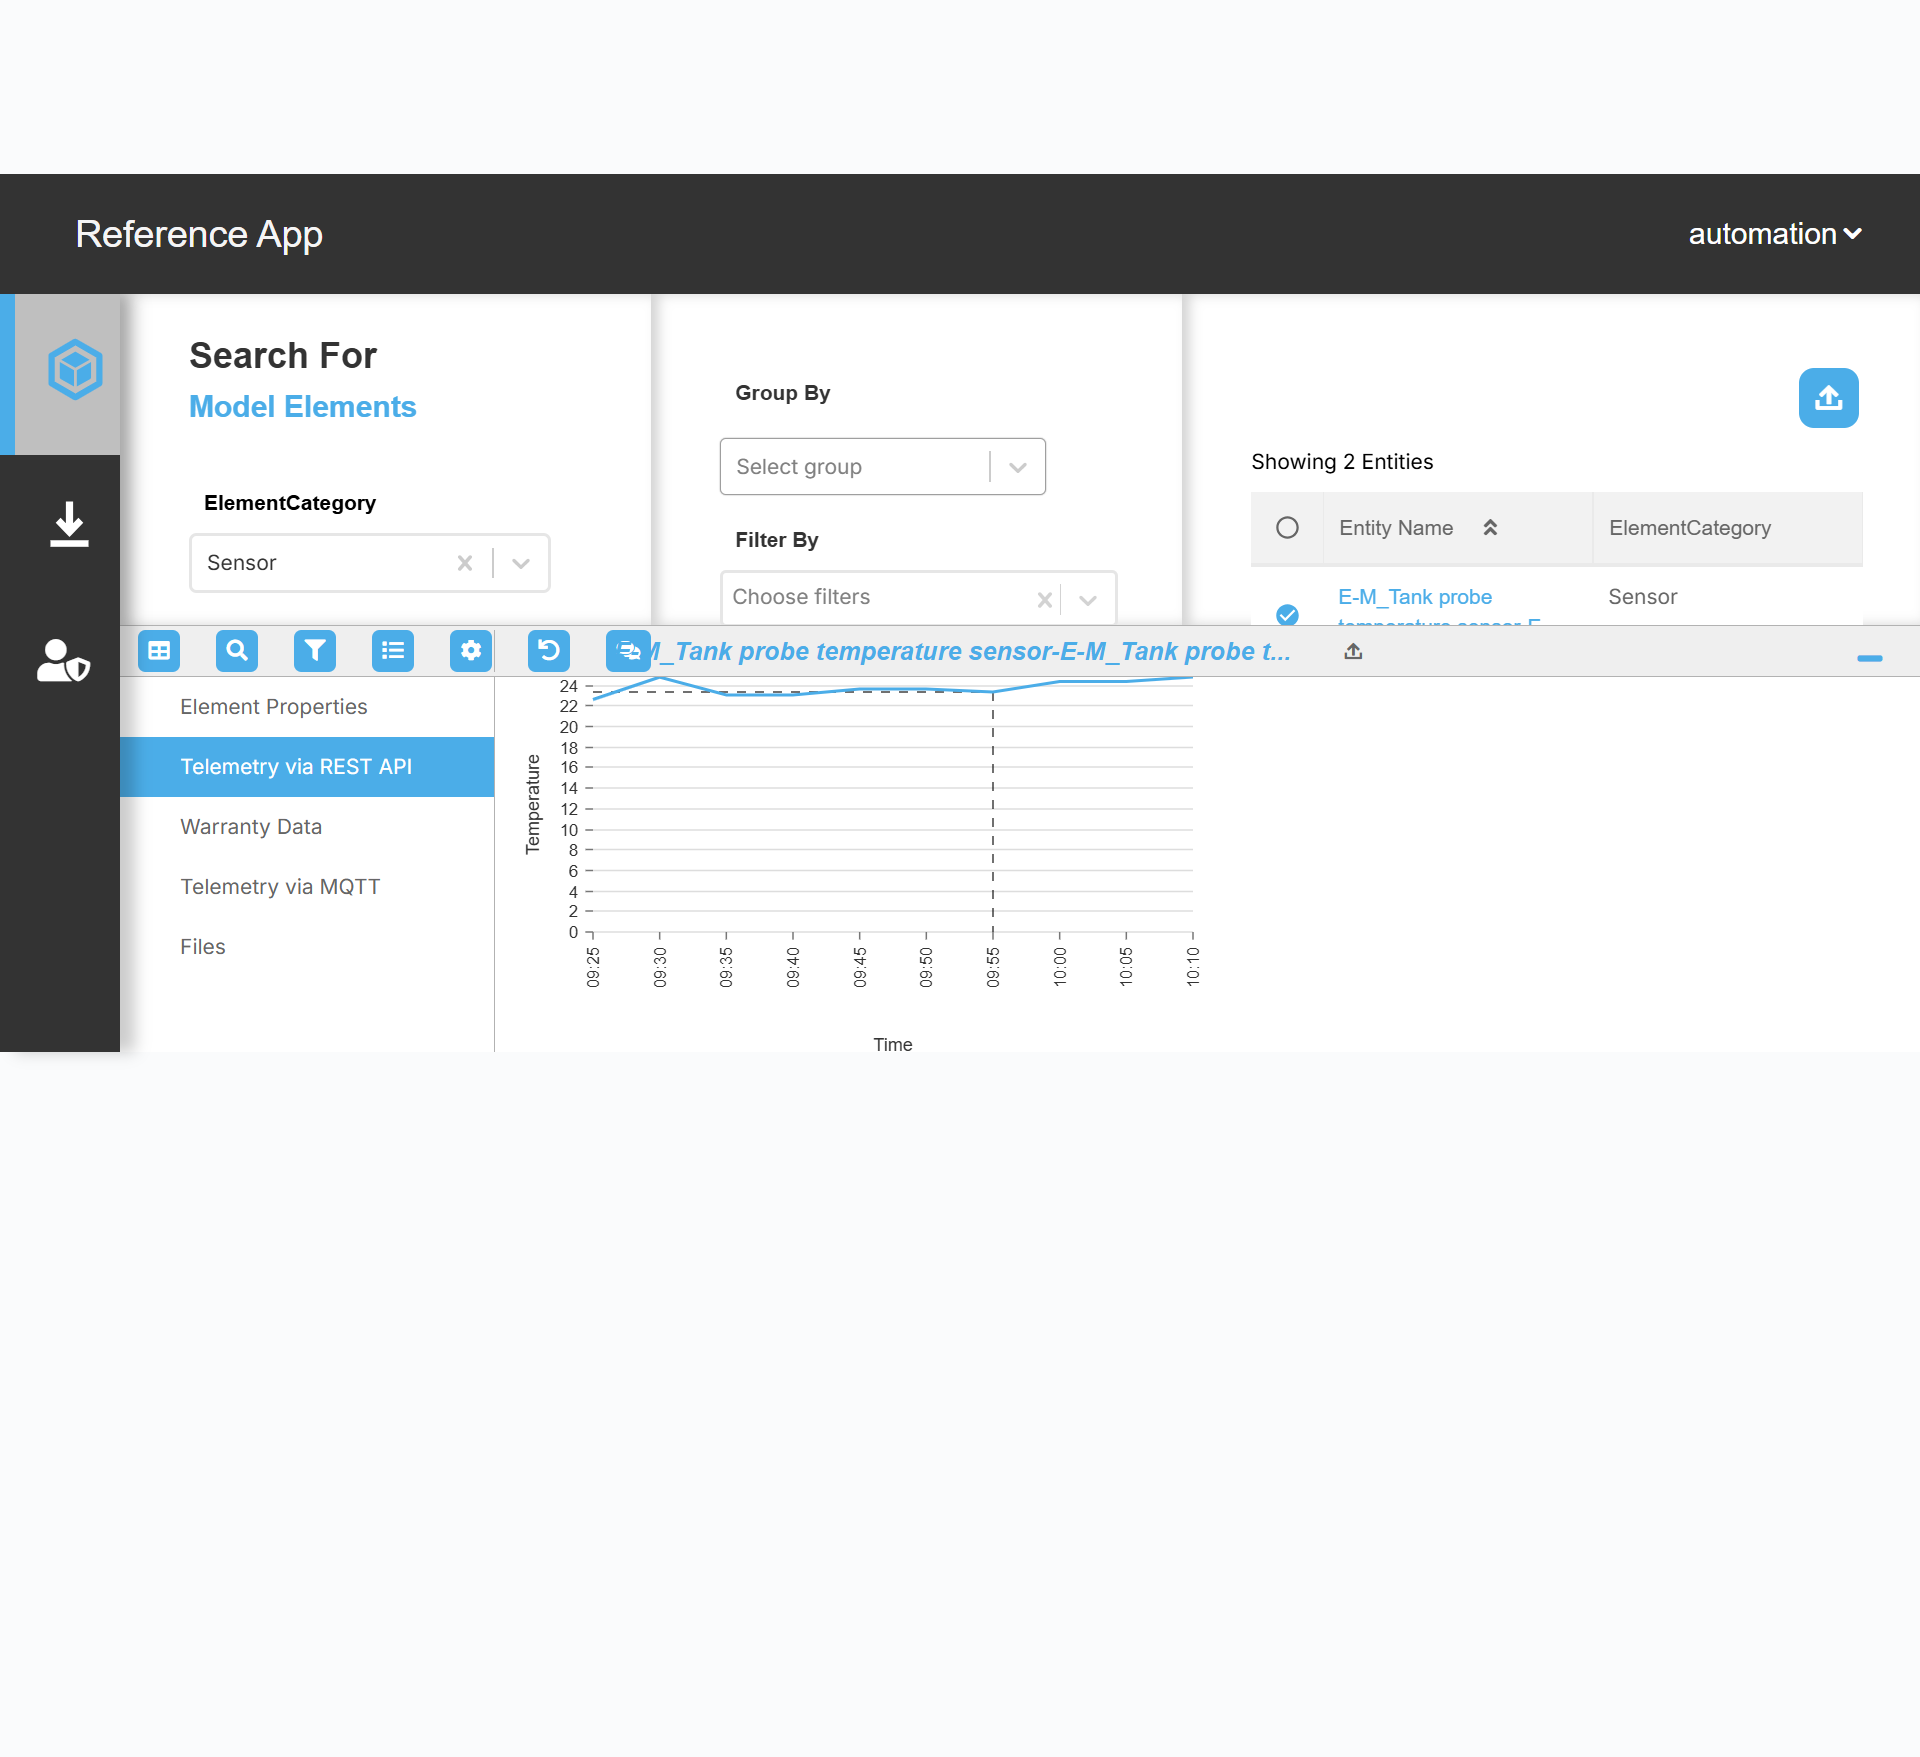
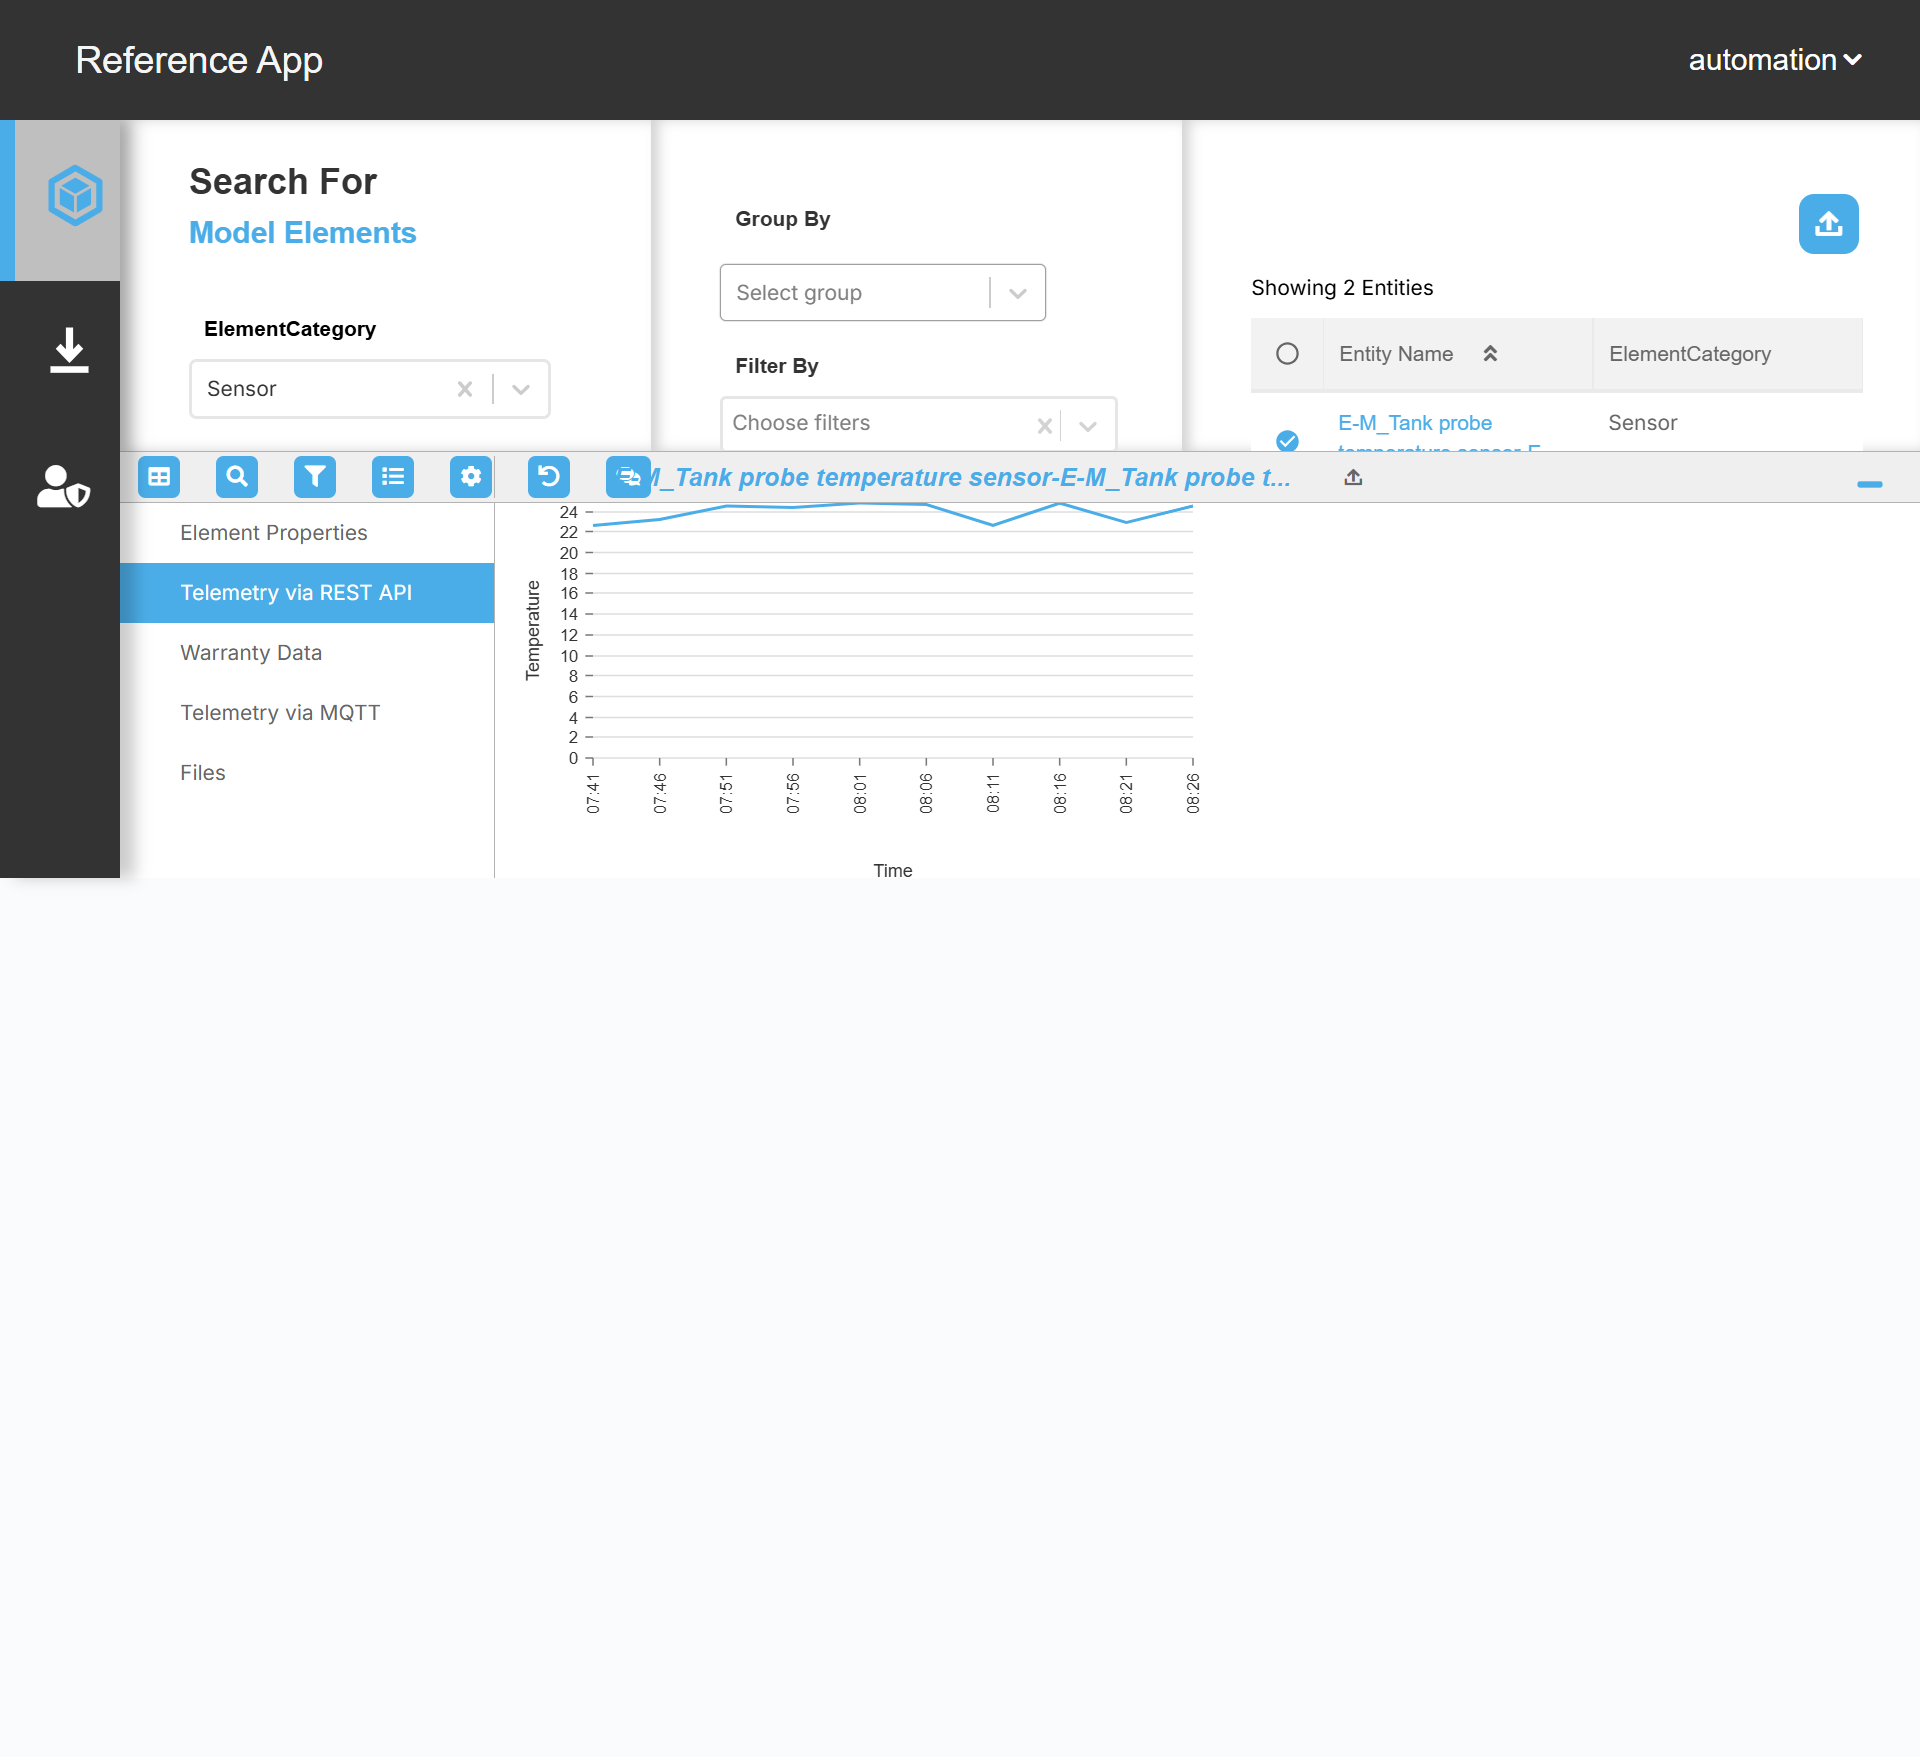
Refactor code structure for improved readability and maintainability

diff --git a/tests/iaf-viewer/tests/specs/5.2TestingScenarios.spec.js b/tests/iaf-viewer/tests/specs/5.2TestingScenarios.spec.js
@@ -36,7 +36,7 @@ import {
   measureElapsed,
 } from '../helpers/appHelpers.js';
 import { switchModel } from '../helpers/modelHelpers.js';
-import { openCuttingPlane, dragPlaneSlider, verifyCuttingPlaneScreenshot } from '../helpers/viewerHelpers.js';
+import { openCuttingPlane, dragPlaneSlider, verifyCuttingPlaneScreenshot, clickViewOption } from '../helpers/viewerHelpers.js';
 import { Locator } from '../helpers/locators.js';
 import {
   goToWorkflowScreen,
@@ -121,4 +121,46 @@ test('PLG-1517 - Cutting Planes custom levels: slider cuts model, updates instan
   // Re-enabling restores the previous custom cut (same baseline as above).
   await page.locator(`xpath=${Locator.standardPlanesToggle}`).click();
   await verifyCuttingPlaneScreenshot(page, 'PLG-1517-CustomLevel-45');
+});
+
+// PLG-1570 - Model Switching: switching to another model loads that model's own initial camera, not the previous model's.
+test('PLG-1570 - Model Switching: initial camera view is correct when switching from Model A to Model B', async ({ page }) => {
+  test.setTimeout(CONFIG.timeout.long);
+
+  await setupWithAccount(page, CONFIG.skinnyBial.credentials, CONFIG.skinnyBial.project, CONFIG.skinnyBial.userGroup);
+  await waitForApplicationLoad(page, CONFIG.timeout.medium);
+  await verifyViewerScreenshot(page, 'PLG-1570-ModelA-InitialView');
+
+  await switchModel(page, CONFIG.skinnyBial.modelB, CONFIG.timeout.long);
+  await verifyViewerScreenshot(page, 'PLG-1570-ModelB-InitialView');
+});
+
+// PLG-1570 - Model Switching: a camera position set on Model A is restored when switching away to Model B and back to Model A.
+test('PLG-1570 - Model Switching: camera position is restored correctly after switching away and back to the same model', async ({ page }) => {
+  test.setTimeout(CONFIG.timeout.long);
+
+  await setupWithAccount(page, CONFIG.skinnyBial.credentials, CONFIG.skinnyBial.project, CONFIG.skinnyBial.userGroup);
+  await waitForApplicationLoad(page, CONFIG.timeout.medium);
+  await clickViewOption(page, 'topView');
+  await verifyViewerScreenshot(page, 'PLG-1570-ModelA-TopView');
+
+  await switchModel(page, CONFIG.skinnyBial.modelB, CONFIG.timeout.long);
+  await switchModel(page, CONFIG.skinnyBial.modelA, CONFIG.timeout.long);
+
+  await verifyViewerScreenshot(page, 'PLG-1570-ModelA-TopView-AfterSwitch');
+});
+
+// PLG-1570 - Model Switching: a saved camera position survives a full page reload (Save View -> Refresh).
+test('PLG-1570 - Model Switching: saved camera position survives a page reload', async ({ page }) => {
+  test.setTimeout(CONFIG.timeout.long);
+
+  await setupWithAccount(page, CONFIG.skinnyBial.credentials, CONFIG.skinnyBial.project, CONFIG.skinnyBial.userGroup);
+  await waitForApplicationLoad(page, CONFIG.timeout.medium);
+  await clickViewOption(page, 'topView');
+  await verifyViewerScreenshot(page, 'PLG-1570-ModelA-TopView-Reload');
+
+  await page.reload();
+  await waitForApplicationLoad(page, CONFIG.timeout.long);
+
+  await verifyViewerScreenshot(page, 'PLG-1570-ModelA-TopView-AfterReload');
 });

diff --git a/tests/iaf-viewer/tests/config.js b/tests/iaf-viewer/tests/config.js
@@ -54,6 +54,14 @@ export const CONFIG = {
     project: 'Skinny_BIAL_AllModels',
     userGroup: 'Skinny_BIAL_AllModels Proj Admin',
     switchModel: 'T2-ELEC-Federated',
+
+    // PLG-1570 - Model Switching camera tests. Model A is this project's own
+    // default landing model; Model B is a distinct federated model to switch
+    // to/from, so the two models are visually different enough to catch a
+    // camera actually carrying over incorrectly (unlike the iput federated
+    // 4.6/4.4 pair, which look nearly identical to each other).
+    modelA: 'L&T_CUP_FED_ASBUILT CORE_2024',
+    modelB: 'T2-ELEC-Federated',
   },
 
   // PLG-1417 - "Review 2D Animations" support ticket. The Workflow (2D
